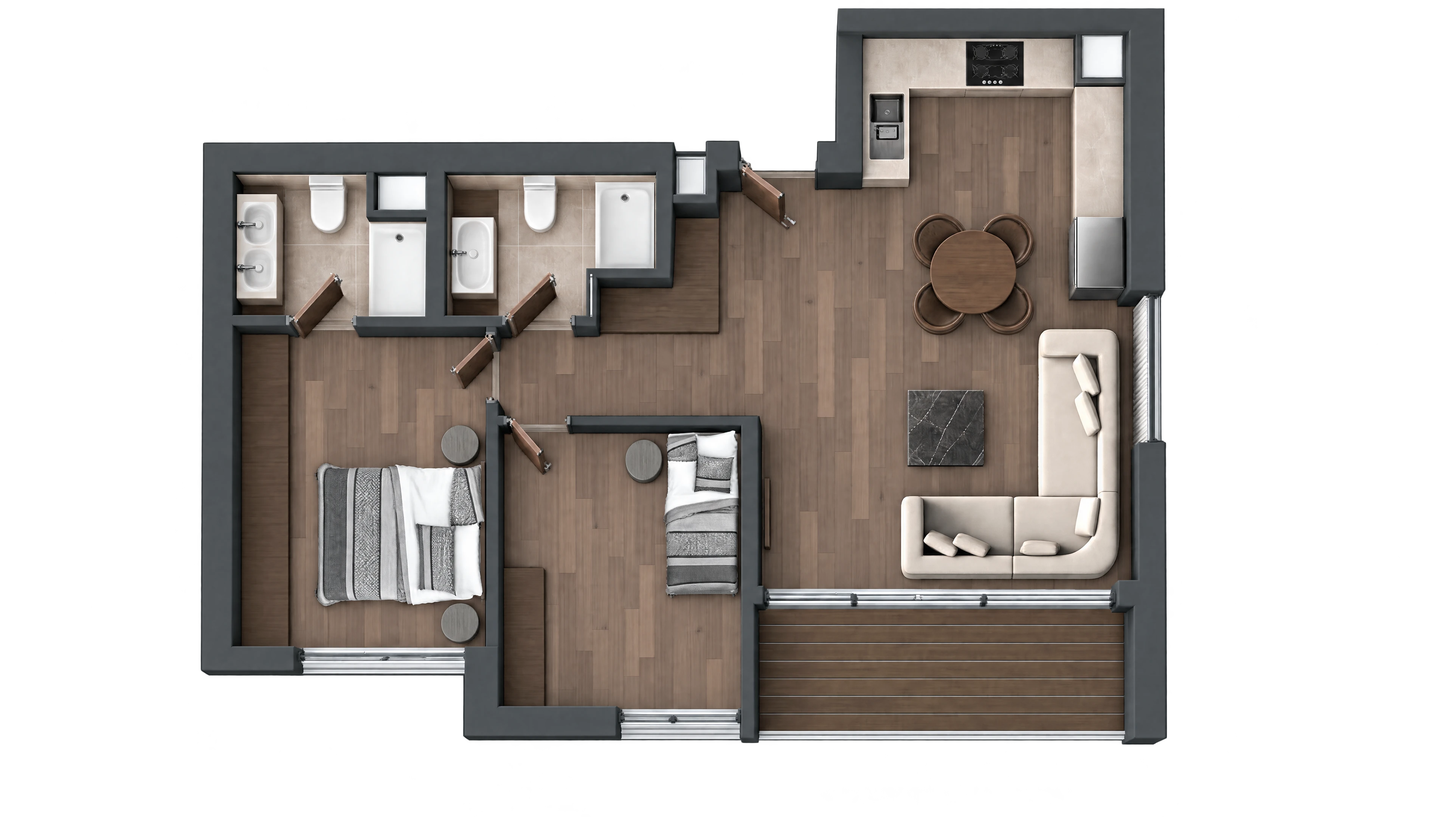
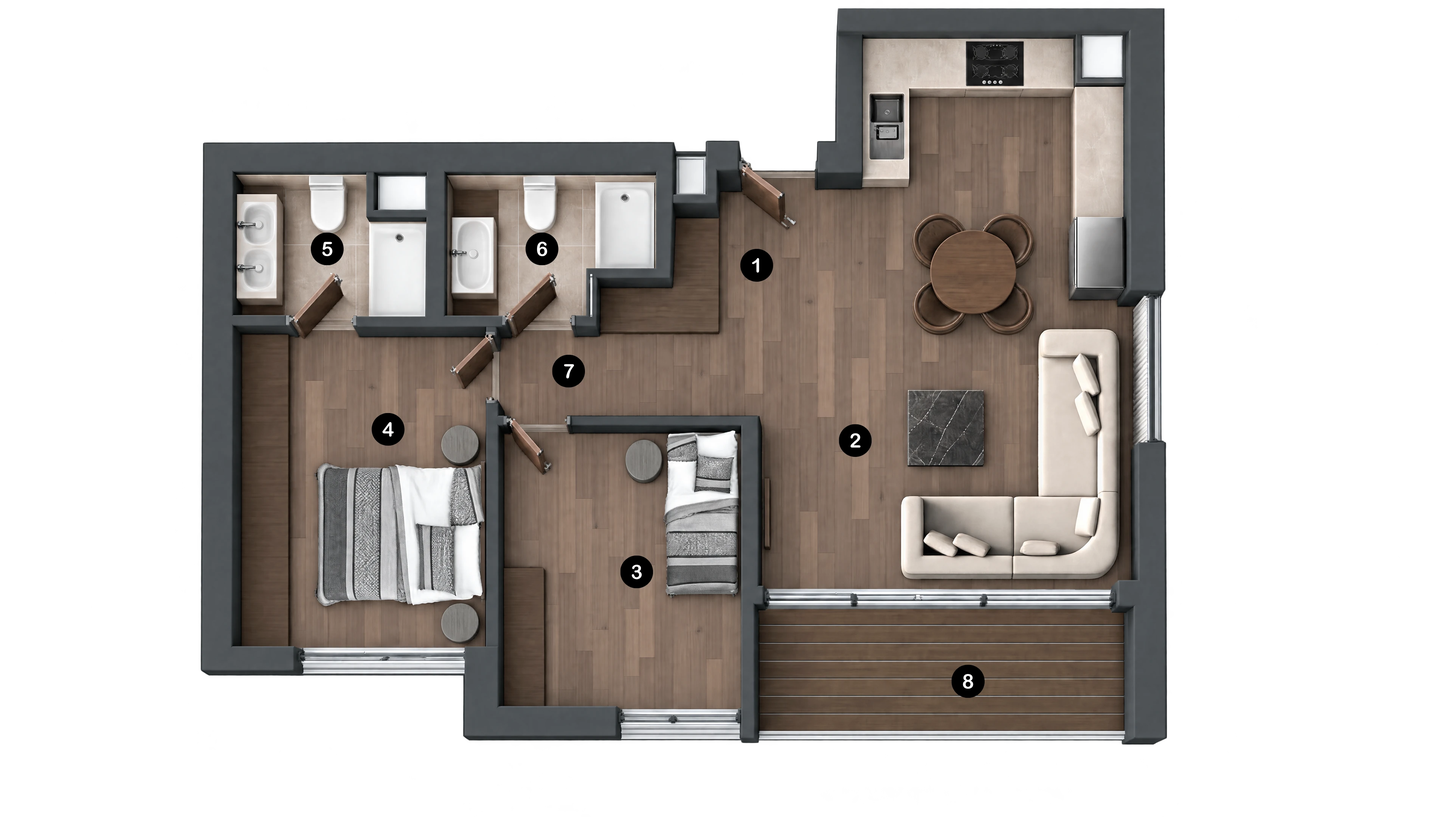
Popup'larda oklu geçiş, K2/K3 oda numaraları, yeni villa banyo görselleri
- assets/js/lightbox-nav.js: tüm popup'lara (Ana Sayfa, Villalar, Daire
  Tipleri, Galeri) sağ/sol ok, klavye ←/→, mobilde kaydırma, sayaç ve
  görseller arası yumuşak geçiş; Galeri'de aktif sekme içinde gezinir,
  Daire Tipleri'nde 6 daire planı / 2 blok planı arasında.
- Daire Tipleri: K2 ve K3 plan görselleri oda numaralı kaynaklardan.
- Villa 1. Kat ebeveyn banyo görselleri yenileriyle değişti (Galeri +
  Villalar); eski dosyalar kaldırıldı, Banyo sekmesi yeni görselleri gösterir.

diff --git a/galeri.html b/galeri.html
@@ -78,8 +78,6 @@
         .pano-scroll { scrollbar-width: none; } .pano-scroll::-webkit-scrollbar { display: none; }
         /* lightbox, panorama mode: use (almost) the full viewport width; on phones keep
            a readable height and let the image scroll sideways instead of shrinking it */
-        #lightbox-img { transition: opacity 0.3s ease, transform 0.3s ease; }
-        #lightbox-img.lb-fade { opacity: 0; transform: scale(0.985); }
         #lightbox figure.lb-wide { max-width: 96vw; overflow-x: auto; }
         #lightbox figure.lb-wide img { width: 100%; height: auto; max-height: none; }
         @media (max-width: 767px) { #lightbox figure.lb-wide img { width: auto; height: 45vh; max-width: none; } }
@@ -343,22 +341,22 @@ src="https://www.facebook.com/tr?id=28939791892284691&ev=PageView&noscript=1"
 </div>
 </div>
 </div>
-<div class="grid grid-cols-1 md:grid-cols-[0.6539fr_0.6500fr_1.0922fr] gap-6 mt-6">
-<div class="lb-tile aspect-[1177/1800] overflow-hidden cursor-pointer group bg-surface-variant" onclick="openLightbox('assets/images/ic/ebeveyn-banyo-3.jpg', 'Ebeveyn Banyo')">
+<div class="grid grid-cols-1 md:grid-cols-[0.6538fr_0.6500fr_1.0919fr] gap-6 mt-6">
+<div class="lb-tile aspect-[1046/1600] overflow-hidden cursor-pointer group bg-surface-variant" onclick="openLightbox('assets/images/villa/ic/ebeveyn-banyo-1-rev.jpg', 'Ebeveyn Banyo')">
 <div class="w-full h-full relative">
-<img class="w-full h-full object-cover transition-transform duration-700 group-hover:scale-[1.03]" alt="Lusso Vita ebeveyn banyosu" src="assets/images/ic/ebeveyn-banyo-3.jpg" loading="lazy">
+<img class="w-full h-full object-cover transition-transform duration-700 group-hover:scale-[1.03]" alt="Lusso Vita ebeveyn banyosu" src="assets/images/villa/ic/ebeveyn-banyo-1-rev.jpg" loading="lazy">
 <div class="absolute inset-0 bg-black/20 opacity-0 group-hover:opacity-100 transition-opacity flex items-end p-6"><span class="text-white font-label-caps text-label-caps">Ebeveyn Banyo</span></div>
 </div>
 </div>
-<div class="lb-tile aspect-[1170/1800] overflow-hidden cursor-pointer group bg-surface-variant" onclick="openLightbox('assets/images/ic/ebeveyn-banyo-4.jpg', 'Ebeveyn Banyo')">
+<div class="lb-tile aspect-[1040/1600] overflow-hidden cursor-pointer group bg-surface-variant" onclick="openLightbox('assets/images/villa/ic/ebeveyn-banyo-2-rev.jpg', 'Ebeveyn Banyo')">
 <div class="w-full h-full relative">
-<img class="w-full h-full object-cover transition-transform duration-700 group-hover:scale-[1.03]" alt="Lusso Vita ebeveyn banyosu duş alanı" src="assets/images/ic/ebeveyn-banyo-4.jpg" loading="lazy">
+<img class="w-full h-full object-cover transition-transform duration-700 group-hover:scale-[1.03]" alt="Lusso Vita ebeveyn banyosu duş alanı" src="assets/images/villa/ic/ebeveyn-banyo-2-rev.jpg" loading="lazy">
 <div class="absolute inset-0 bg-black/20 opacity-0 group-hover:opacity-100 transition-opacity flex items-end p-6"><span class="text-white font-label-caps text-label-caps">Ebeveyn Banyo</span></div>
 </div>
 </div>
-<div class="lb-tile aspect-[1800/1648] overflow-hidden cursor-pointer group bg-surface-variant" onclick="openLightbox('assets/images/ic/ebeveyn-banyo-5.jpg', 'Ebeveyn Banyo')">
+<div class="lb-tile aspect-[1747/1600] overflow-hidden cursor-pointer group bg-surface-variant" onclick="openLightbox('assets/images/villa/ic/ebeveyn-banyo-3-rev.jpg', 'Ebeveyn Banyo')">
 <div class="w-full h-full relative">
-<img class="w-full h-full object-cover transition-transform duration-700 group-hover:scale-[1.03]" alt="Lusso Vita ebeveyn banyosu lavabo ve duş" src="assets/images/ic/ebeveyn-banyo-5.jpg" loading="lazy">
+<img class="w-full h-full object-cover transition-transform duration-700 group-hover:scale-[1.03]" alt="Lusso Vita ebeveyn banyosu lavabo ve duş" src="assets/images/villa/ic/ebeveyn-banyo-3-rev.jpg" loading="lazy">
 <div class="absolute inset-0 bg-black/20 opacity-0 group-hover:opacity-100 transition-opacity flex items-end p-6"><span class="text-white font-label-caps text-label-caps">Ebeveyn Banyo</span></div>
 </div>
 </div>
@@ -479,22 +477,22 @@ src="https://www.facebook.com/tr?id=28939791892284691&ev=PageView&noscript=1"
 
 <div>
 <h3 class="font-headline-sm text-headline-sm text-primary mb-6">Villa 1. Kat</h3>
-<div class="grid grid-cols-1 md:grid-cols-[0.6538fr_0.6538fr_1.0929fr] gap-6 mb-6">
-<div class="aspect-[1046/1600] overflow-hidden cursor-pointer group" onclick="openLightbox('assets/images/villa/ic/ebeveyn-banyo-1.jpg', 'Villa Ebeveyn Banyo')">
+<div class="villa-eb-banyo hidden grid grid-cols-1 md:grid-cols-[0.6538fr_0.6500fr_1.0919fr] gap-6 mb-6">
+<div class="aspect-[1046/1600] overflow-hidden cursor-pointer group" onclick="openLightbox('assets/images/villa/ic/ebeveyn-banyo-1-rev.jpg', 'Villa Ebeveyn Banyo')">
 <div class="w-full h-full relative">
-<img class="w-full h-full object-cover" alt="Lusso Vita villa ebeveyn banyo" src="assets/images/villa/ic/ebeveyn-banyo-1.jpg">
+<img class="w-full h-full object-cover" alt="Lusso Vita villa ebeveyn banyo" src="assets/images/villa/ic/ebeveyn-banyo-1-rev.jpg">
 <div class="absolute inset-0 bg-black/20 opacity-0 group-hover:opacity-100 transition-opacity flex items-end p-8"><span class="text-white font-label-caps text-label-caps">Villa Ebeveyn Banyo</span></div>
 </div>
 </div>
-<div class="aspect-[1046/1600] overflow-hidden cursor-pointer group" onclick="openLightbox('assets/images/villa/ic/ebeveyn-banyo-2.jpg', 'Villa Ebeveyn Banyo')">
+<div class="aspect-[1040/1600] overflow-hidden cursor-pointer group" onclick="openLightbox('assets/images/villa/ic/ebeveyn-banyo-2-rev.jpg', 'Villa Ebeveyn Banyo')">
 <div class="w-full h-full relative">
-<img class="w-full h-full object-cover" alt="Lusso Vita villa ebeveyn banyo ikinci görsel" src="assets/images/villa/ic/ebeveyn-banyo-2.jpg">
+<img class="w-full h-full object-cover" alt="Lusso Vita villa ebeveyn banyo ikinci görsel" src="assets/images/villa/ic/ebeveyn-banyo-2-rev.jpg">
 <div class="absolute inset-0 bg-black/20 opacity-0 group-hover:opacity-100 transition-opacity flex items-end p-8"><span class="text-white font-label-caps text-label-caps">Villa Ebeveyn Banyo</span></div>
 </div>
 </div>
-<div class="aspect-[1600/1464] overflow-hidden cursor-pointer group" onclick="openLightbox('assets/images/villa/ic/ebeveyn-banyo-3.jpg', 'Villa Ebeveyn Banyo')">
+<div class="aspect-[1747/1600] overflow-hidden cursor-pointer group" onclick="openLightbox('assets/images/villa/ic/ebeveyn-banyo-3-rev.jpg', 'Villa Ebeveyn Banyo')">
 <div class="w-full h-full relative">
-<img class="w-full h-full object-cover" alt="Lusso Vita villa ebeveyn banyo üçüncü görsel" src="assets/images/villa/ic/ebeveyn-banyo-3.jpg">
+<img class="w-full h-full object-cover" alt="Lusso Vita villa ebeveyn banyo üçüncü görsel" src="assets/images/villa/ic/ebeveyn-banyo-3-rev.jpg">
 <div class="absolute inset-0 bg-black/20 opacity-0 group-hover:opacity-100 transition-opacity flex items-end p-8"><span class="text-white font-label-caps text-label-caps">Villa Ebeveyn Banyo</span></div>
 </div>
 </div>
@@ -559,15 +557,9 @@ src="https://www.facebook.com/tr?id=28939791892284691&ev=PageView&noscript=1"
 <button class="absolute top-6 right-6 text-white/80 hover:text-white transition-colors" onclick="closeLightbox(event)" aria-label="Kapat">
 <span class="material-symbols-outlined text-4xl">close</span>
 </button>
-<button id="lb-prev" class="absolute left-2 md:left-6 top-1/2 -translate-y-1/2 z-10 w-11 h-11 md:w-14 md:h-14 rounded-full bg-white/10 hover:bg-white/20 text-white flex items-center justify-center transition-colors" onclick="event.stopPropagation(); lbStep(-1)" aria-label="Önceki görsel">
-<span class="material-symbols-outlined text-3xl md:text-4xl">chevron_left</span>
-</button>
-<button id="lb-next" class="absolute right-2 md:right-6 top-1/2 -translate-y-1/2 z-10 w-11 h-11 md:w-14 md:h-14 rounded-full bg-white/10 hover:bg-white/20 text-white flex items-center justify-center transition-colors" onclick="event.stopPropagation(); lbStep(1)" aria-label="Sonraki görsel">
-<span class="material-symbols-outlined text-3xl md:text-4xl">chevron_right</span>
-</button>
-<figure class="max-w-5xl w-full md:px-16" onclick="event.stopPropagation()">
+<figure class="max-w-5xl w-full" onclick="event.stopPropagation()">
 <img id="lightbox-img" src="" alt="" class="w-full h-auto max-h-[85vh] object-contain">
-<figcaption class="text-white/80 font-label-caps text-label-caps text-center mt-4"><span id="lightbox-caption"></span><span id="lightbox-count" class="text-white/40 ml-3"></span></figcaption>
+<figcaption id="lightbox-caption" class="text-white/80 font-label-caps text-label-caps text-center mt-4"></figcaption>
 </figure>
 </div>
 <!-- CTA Section -->
@@ -616,57 +608,17 @@ src="https://www.facebook.com/tr?id=28939791892284691&ev=PageView&noscript=1"
 </div>
 </footer>
 <script>
-        // Lightbox with prev/next: the sequence is every image currently visible
-        // on the page (i.e. the active filter's images, in page order), so the
-        // arrows always stay inside the category the visitor is looking at.
-        let lbList = [], lbIndex = 0, lbBusy = false;
-        function lbCollect() {
-            const seen = new Set();
-            return [...document.querySelectorAll('[onclick^="openLightbox"]')]
-                .filter(el => el.offsetParent !== null && !el.closest('#lightbox'))
-                .map(el => {
-                    const m = el.getAttribute('onclick').match(/openLightbox\('([^']+)',\s*'([^']*)'(?:,\s*(true))?\)/);
-                    return m && { src: m[1], caption: m[2], wide: !!m[3] };
-                })
-                .filter(it => it && !seen.has(it.src) && seen.add(it.src));
-        }
-        function lbRender(item) {
-            const img = document.getElementById('lightbox-img');
-            document.querySelector('#lightbox figure').classList.toggle('lb-wide', item.wide);
-            img.src = item.src;
-            img.alt = item.caption || 'Lusso Vita galeri görseli';
-            document.getElementById('lightbox-caption').textContent = item.caption || '';
-            document.getElementById('lightbox-count').textContent = lbList.length > 1 ? `${lbIndex + 1} / ${lbList.length}` : '';
-            const multi = lbList.length > 1;
-            document.getElementById('lb-prev').style.display = multi ? '' : 'none';
-            document.getElementById('lb-next').style.display = multi ? '' : 'none';
-        }
+        // prev/next arrows, keys, swipe and the soft fade come from assets/js/lightbox-nav.js
+        window.lightboxFlag = 'wide';   // 3rd openLightbox() argument = panorama
         function openLightbox(src, caption, wide) {
             const lightbox = document.getElementById('lightbox');
-            lbList = lbCollect();
-            lbIndex = lbList.findIndex(it => it.src === src);
-            if (lbIndex < 0) { lbList = [{ src, caption, wide: !!wide }]; lbIndex = 0; }
-            const img = document.getElementById('lightbox-img');
-            img.classList.remove('lb-fade');
-            lbRender(lbList[lbIndex]);
+            lightbox.querySelector('figure').classList.toggle('lb-wide', !!wide);
+            document.getElementById('lightbox-img').src = src;
+            document.getElementById('lightbox-img').alt = caption || 'Lusso Vita galeri görseli';
+            document.getElementById('lightbox-caption').textContent = caption || '';
             lightbox.classList.remove('hidden');
             lightbox.classList.add('flex');
             document.body.style.overflow = 'hidden';
-        }
-        function lbStep(dir) {
-            if (lbList.length < 2 || lbBusy) return;
-            lbBusy = true;
-            lbIndex = (lbIndex + dir + lbList.length) % lbList.length;
-            const item = lbList[lbIndex];
-            const img = document.getElementById('lightbox-img');
-            img.classList.add('lb-fade');                     // soft fade-out
-            const pre = new Image();
-            const swap = () => setTimeout(() => {              // swap once faded AND loaded
-                lbRender(item);
-                requestAnimationFrame(() => { img.classList.remove('lb-fade'); lbBusy = false; });
-            }, 300);
-            pre.onload = swap; pre.onerror = swap;
-            pre.src = item.src;
         }
         function closeLightbox(event) {
             if (event) event.stopPropagation();
@@ -677,22 +629,7 @@ src="https://www.facebook.com/tr?id=28939791892284691&ev=PageView&noscript=1"
         }
         document.addEventListener('keydown', (e) => {
             if (e.key === 'Escape') closeLightbox();
-            if (document.getElementById('lightbox').classList.contains('hidden')) return;
-            if (e.key === 'ArrowRight') lbStep(1);
-            if (e.key === 'ArrowLeft') lbStep(-1);
         });
-        // swipe on touch screens (not on panoramas, which scroll sideways themselves)
-        (() => {
-            const lb = document.getElementById('lightbox');
-            let x0 = null;
-            lb.addEventListener('touchstart', (e) => { x0 = e.touches[0].clientX; }, { passive: true });
-            lb.addEventListener('touchend', (e) => {
-                if (x0 === null) return;
-                const dx = e.changedTouches[0].clientX - x0; x0 = null;
-                if (lbList[lbIndex]?.wide || Math.abs(dx) < 50) return;
-                lbStep(dx < 0 ? 1 : -1);
-            });
-        })();
 
         // Keyboard access for gallery thumbnails (Tab to focus, Enter/Space to open)
         document.querySelectorAll('.gallery-item').forEach((item) => {
@@ -732,6 +669,8 @@ src="https://www.facebook.com/tr?id=28939791892284691&ev=PageView&noscript=1"
                 group.style.display = show ? 'block' : 'none';
             });
             // villa ebeveyn banyosu: shown inside Banyolar only under the "Banyo" filter
+            // Villa 1. Kat's ebeveyn banyo row = the same images as Banyolar: show it only under the Villa filter
+            document.querySelectorAll('.villa-eb-banyo').forEach(el => el.classList.toggle('hidden', category !== 'villa'));
             // the daire bento has no lobi/banyo/villa tiles - hide its title for those filters
             const bentoCats = ['all', 'salon', 'mutfak', 'yatak', 'cocuk'];
             document.getElementById('daire-grid-title').style.display = bentoCats.includes(category) ? '' : 'none';
@@ -753,5 +692,6 @@ src="https://www.facebook.com/tr?id=28939791892284691&ev=PageView&noscript=1"
 <a href="https://wa.me/905331587419?text=Merhaba%2C%20Projeniz%20hakk%C4%B1nda%20bilgi%20almak%20istiyorum." target="_blank" rel="noopener noreferrer" aria-label="WhatsApp ile iletişime geç" class="fixed bottom-24 right-5 md:bottom-8 md:right-8 z-40 w-12 h-12 md:w-14 md:h-14 rounded-full bg-[#25D366] flex items-center justify-center shadow-lg hover:scale-110 transition-transform duration-300">
 <span class="material-symbols-outlined text-white text-2xl md:text-3xl">chat</span>
 </a>
+<script src="assets/js/lightbox-nav.js"></script>
 </body>
 </html>

diff --git a/assets/js/lightbox-nav.js b/assets/js/lightbox-nav.js
@@ -1,0 +1,130 @@
+/*
+ * Lusso Vita - shared lightbox navigation (all pages with a #lightbox popup).
+ * Adds prev/next arrows, ←/→ keys, touch swipe, an "n / N" counter and a soft
+ * fade between images to the page's own lightbox. The page keeps its own
+ * openLightbox()/closeLightbox(); this file wraps openLightbox.
+ *
+ * Sequence = every image the visitor can currently see on the page (the
+ * elements with onclick="openLightbox('src', 'caption'[, flag])", in page
+ * order), so on filtered pages the arrows stay inside the active category.
+ * A page can override it with window.lightboxItems(src) -> [{src, caption, flag}].
+ * window.lightboxFlag names what the optional 3rd argument means on that page:
+ *   'wide'    - panorama: use (almost) the full viewport width
+ *   'lightBg' - transparent plan: show it on the site's ivory
+ */
+(function () {
+    const lb = document.getElementById('lightbox');
+    const img = document.getElementById('lightbox-img');
+    const cap = document.getElementById('lightbox-caption');
+    if (!lb || !img || typeof window.openLightbox !== 'function') return;
+    const figure = img.closest('figure');
+
+    const style = document.createElement('style');
+    style.textContent = `
+        #lightbox-img { transition: opacity .3s ease, transform .3s ease; }
+        #lightbox-img.lb-fade { opacity: 0; transform: scale(.985); }
+        #lightbox figure.lb-wide { max-width: 96vw; overflow-x: auto; }
+        #lightbox figure.lb-wide img { width: 100%; height: auto; max-height: none; }
+        @media (max-width: 767px) { #lightbox figure.lb-wide img { width: auto; height: 45vh; max-width: none; } }
+        @media (min-width: 768px) { #lightbox figure.lb-has-nav { padding-left: 4rem; padding-right: 4rem; } }
+        .lb-nav { position: absolute; top: 50%; transform: translateY(-50%); z-index: 10; width: 2.75rem; height: 2.75rem;
+                  border-radius: 9999px; background: rgba(255,255,255,.1); color: #fff; display: flex; align-items: center;
+                  justify-content: center; transition: background-color .2s ease; }
+        .lb-nav:hover { background: rgba(255,255,255,.2); }
+        .lb-nav .material-symbols-outlined { font-size: 1.9rem; }
+        @media (min-width: 768px) { .lb-nav { width: 3.5rem; height: 3.5rem; } .lb-nav .material-symbols-outlined { font-size: 2.25rem; } }
+        #lb-prev { left: .5rem; } #lb-next { right: .5rem; }
+        @media (min-width: 768px) { #lb-prev { left: 1.5rem; } #lb-next { right: 1.5rem; } }
+        #lightbox-count { color: rgba(255,255,255,.4); text-align: center; margin-top: .5rem; font-size: 10px; letter-spacing: .15em; }
+    `;
+    document.head.appendChild(style);
+
+    const mkBtn = (id, icon, label, dir) => {
+        const b = document.createElement('button');
+        b.id = id; b.className = 'lb-nav'; b.type = 'button'; b.setAttribute('aria-label', label);
+        b.innerHTML = `<span class="material-symbols-outlined">${icon}</span>`;
+        b.addEventListener('click', (e) => { e.stopPropagation(); step(dir); });
+        lb.appendChild(b);
+        return b;
+    };
+    const prevBtn = mkBtn('lb-prev', 'chevron_left', 'Önceki görsel', -1);
+    const nextBtn = mkBtn('lb-next', 'chevron_right', 'Sonraki görsel', 1);
+    const counter = document.createElement('div');
+    counter.id = 'lightbox-count';
+    figure.appendChild(counter);
+
+    const abs = (u) => { try { return new URL(u, location.href).href; } catch (e) { return u; } };
+    const flagName = window.lightboxFlag || '';
+    let list = [], idx = 0, busy = false;
+
+    function collect(src) {
+        if (typeof window.lightboxItems === 'function') {
+            const custom = window.lightboxItems(src);
+            if (custom && custom.length) return custom;
+        }
+        const seen = new Set();
+        return [...document.querySelectorAll('[onclick^="openLightbox"]')]
+            .filter(el => el.offsetParent !== null && !el.closest('#lightbox'))
+            .map(el => {
+                const m = el.getAttribute('onclick').match(/openLightbox\('([^']+)',\s*'([^']*)'(?:,\s*(true))?\)/);
+                return m && { src: m[1], caption: m[2], flag: !!m[3] };
+            })
+            .filter(it => it && !seen.has(abs(it.src)) && seen.add(abs(it.src)));
+    }
+
+    function render(it) {
+        img.src = it.src;
+        img.alt = it.caption || 'Lusso Vita görseli';
+        cap.textContent = it.caption || '';
+        figure.classList.toggle('lb-wide', flagName === 'wide' && !!it.flag);
+        const light = flagName === 'lightBg' && !!it.flag;
+        img.style.background = light ? '#FCF9F1' : '';
+        img.style.padding = light ? '2.5%' : '';
+        img.style.borderRadius = light ? '12px' : '';
+        const multi = list.length > 1;
+        prevBtn.style.display = nextBtn.style.display = multi ? '' : 'none';
+        figure.classList.toggle('lb-has-nav', multi);
+        counter.textContent = multi ? `${idx + 1} / ${list.length}` : '';
+    }
+
+    function step(dir) {
+        if (list.length < 2 || busy || lb.classList.contains('hidden')) return;
+        busy = true;
+        idx = (idx + dir + list.length) % list.length;
+        const it = list[idx];
+        img.classList.add('lb-fade');                       // soft fade-out
+        const pre = new Image();
+        const swap = () => setTimeout(() => {               // swap once faded out AND loaded
+            render(it);
+            setTimeout(() => { img.classList.remove('lb-fade'); busy = false; }, 20);  // next frame: fade back in
+        }, 300);
+        pre.onload = swap; pre.onerror = swap;
+        pre.src = it.src;
+    }
+
+    const original = window.openLightbox;
+    window.openLightbox = function (src, caption, flag) {
+        original.apply(this, arguments);
+        list = collect(src);
+        idx = list.findIndex(it => abs(it.src) === abs(src));
+        if (idx < 0) { list = [{ src, caption, flag: !!flag }]; idx = 0; }
+        img.classList.remove('lb-fade');
+        busy = false;
+        render(list[idx]);
+    };
+
+    document.addEventListener('keydown', (e) => {
+        if (lb.classList.contains('hidden')) return;
+        if (e.key === 'ArrowRight') step(1);
+        if (e.key === 'ArrowLeft') step(-1);
+    });
+    let x0 = null;
+    lb.addEventListener('touchstart', (e) => { x0 = e.touches[0].clientX; }, { passive: true });
+    lb.addEventListener('touchend', (e) => {
+        if (x0 === null) return;
+        const dx = e.changedTouches[0].clientX - x0; x0 = null;
+        const it = list[idx];
+        if (Math.abs(dx) < 50 || (it && it.flag && flagName === 'wide')) return;  // panoramas scroll sideways themselves
+        step(dx < 0 ? 1 : -1);
+    });
+})();

diff --git a/villalar.html b/villalar.html
@@ -301,7 +301,7 @@ src="https://www.facebook.com/tr?id=28939791892284691&ev=PageView&noscript=1"
 <h3 class="font-headline-sm text-headline-sm text-primary mb-6">1. Kat — Yatak Odaları ve Banyo</h3>
 <div class="grid grid-cols-1 md:grid-cols-[1.7837fr_0.6538fr] gap-4">
 <div class="aspect-[1600/897] overflow-hidden bg-travertine group cursor-pointer" onclick="openLightbox('assets/images/villa/ic/ebeveyn-yatak-odasi-1.jpg', 'Ebeveyn Yatak Odası')"><img class="w-full h-full object-cover transition-transform duration-700 group-hover:scale-105" alt="Villa ebeveyn yatak odası" src="assets/images/villa/ic/ebeveyn-yatak-odasi-1.jpg"></div>
-<div class="aspect-[1046/1600] overflow-hidden bg-travertine group cursor-pointer" onclick="openLightbox('assets/images/villa/ic/ebeveyn-banyo-1.jpg', 'Ebeveyn Banyo')"><img class="w-full h-full object-cover transition-transform duration-700 group-hover:scale-105" alt="Villa ebeveyn banyo" src="assets/images/villa/ic/ebeveyn-banyo-1.jpg"></div>
+<div class="aspect-[1046/1600] overflow-hidden bg-travertine group cursor-pointer" onclick="openLightbox('assets/images/villa/ic/ebeveyn-banyo-1-rev.jpg', 'Ebeveyn Banyo')"><img class="w-full h-full object-cover transition-transform duration-700 group-hover:scale-105" alt="Villa ebeveyn banyo" src="assets/images/villa/ic/ebeveyn-banyo-1-rev.jpg"></div>
 </div>
 <div class="grid grid-cols-1 md:grid-cols-[1.3008fr_1.6000fr_0.7456fr] gap-4 mt-4">
 <div class="aspect-[1600/1230] overflow-hidden bg-travertine group cursor-pointer" onclick="openLightbox('assets/images/villa/ic/yatak-odasi-1.jpg', 'Yatak Odası')"><img class="w-full h-full object-cover transition-transform duration-700 group-hover:scale-105" alt="Villa yatak odası" src="assets/images/villa/ic/yatak-odasi-1.jpg"></div>
@@ -314,9 +314,9 @@ src="https://www.facebook.com/tr?id=28939791892284691&ev=PageView&noscript=1"
 <div class="aspect-[16/10] overflow-hidden bg-travertine group cursor-pointer" onclick="openLightbox('assets/images/villa/ic/yatak-odasi-2.jpg', 'Yatak Odası')"><img class="w-full h-full object-cover transition-transform duration-700 group-hover:scale-105" alt="Villa yatak odası ikinci görsel" src="assets/images/villa/ic/yatak-odasi-2.jpg"></div>
 <div class="aspect-[16/10] overflow-hidden bg-travertine group cursor-pointer" onclick="openLightbox('assets/images/villa/ic/ebeveyn-giyinme-2.jpg', 'Ebeveyn Giyinme Odası')"><img class="w-full h-full object-cover transition-transform duration-700 group-hover:scale-105" alt="Villa ebeveyn giyinme odası ikinci görsel" src="assets/images/villa/ic/ebeveyn-giyinme-2.jpg"></div>
 </div>
-<div class="grid grid-cols-1 md:grid-cols-[0.6538fr_1.0929fr] gap-4 mt-4">
-<div class="aspect-[1046/1600] overflow-hidden bg-travertine group cursor-pointer" onclick="openLightbox('assets/images/villa/ic/ebeveyn-banyo-2.jpg', 'Ebeveyn Banyo')"><img class="w-full h-full object-cover transition-transform duration-700 group-hover:scale-105" alt="Villa ebeveyn banyo ikinci görsel" src="assets/images/villa/ic/ebeveyn-banyo-2.jpg"></div>
-<div class="aspect-[1600/1464] overflow-hidden bg-travertine group cursor-pointer" onclick="openLightbox('assets/images/villa/ic/ebeveyn-banyo-3.jpg', 'Ebeveyn Banyo')"><img class="w-full h-full object-cover transition-transform duration-700 group-hover:scale-105" alt="Villa ebeveyn banyo üçüncü görsel" src="assets/images/villa/ic/ebeveyn-banyo-3.jpg"></div>
+<div class="grid grid-cols-1 md:grid-cols-[0.6500fr_1.0919fr] gap-4 mt-4">
+<div class="aspect-[1040/1600] overflow-hidden bg-travertine group cursor-pointer" onclick="openLightbox('assets/images/villa/ic/ebeveyn-banyo-2-rev.jpg', 'Ebeveyn Banyo')"><img class="w-full h-full object-cover transition-transform duration-700 group-hover:scale-105" alt="Villa ebeveyn banyo ikinci görsel" src="assets/images/villa/ic/ebeveyn-banyo-2-rev.jpg"></div>
+<div class="aspect-[1747/1600] overflow-hidden bg-travertine group cursor-pointer" onclick="openLightbox('assets/images/villa/ic/ebeveyn-banyo-3-rev.jpg', 'Ebeveyn Banyo')"><img class="w-full h-full object-cover transition-transform duration-700 group-hover:scale-105" alt="Villa ebeveyn banyo üçüncü görsel" src="assets/images/villa/ic/ebeveyn-banyo-3-rev.jpg"></div>
 </div>
 </div>
 </section>
@@ -527,5 +527,6 @@ src="https://www.facebook.com/tr?id=28939791892284691&ev=PageView&noscript=1"
 <a href="https://wa.me/905331587419?text=Merhaba%2C%20Projeniz%20hakk%C4%B1nda%20bilgi%20almak%20istiyorum." target="_blank" rel="noopener noreferrer" aria-label="WhatsApp ile iletişime geç" class="fixed bottom-24 right-5 md:bottom-8 md:right-8 z-40 w-12 h-12 md:w-14 md:h-14 rounded-full bg-[#25D366] flex items-center justify-center shadow-lg hover:scale-110 transition-transform duration-300">
 <span class="material-symbols-outlined text-white text-2xl md:text-3xl">chat</span>
 </a>
+<script src="assets/js/lightbox-nav.js"></script>
 </body>
 </html>

diff --git a/daire-tipleri.html b/daire-tipleri.html
@@ -283,6 +283,14 @@ src="https://www.facebook.com/tr?id=28939791892284691&ev=PageView&noscript=1"
     </div>
 
     <script>
+        // popup navigation (assets/js/lightbox-nav.js): daire plans step through all
+        // six daire types in tab order, blok plans through the two blok plans
+        window.lightboxFlag = 'lightBg';
+        window.lightboxItems = (src) => {
+            if (/blok-kat-planlari\//.test(src)) return Object.values(blokKatPlanlari).map(d => ({ src: d.image, caption: d.alt, flag: true }));
+            if (/kat-planlari\//.test(src)) return Object.values(floorPlanData).map(d => ({ src: d.image, caption: d.title, flag: false }));
+            return null;
+        };
         function openLightbox(src, caption, lightBg) {
             const lightbox = document.getElementById('lightbox');
             const lbImg = document.getElementById('lightbox-img');
@@ -449,4 +457,5 @@ src="https://www.facebook.com/tr?id=28939791892284691&ev=PageView&noscript=1"
 <a href="https://wa.me/905331587419?text=Merhaba%2C%20Projeniz%20hakk%C4%B1nda%20bilgi%20almak%20istiyorum." target="_blank" rel="noopener noreferrer" aria-label="WhatsApp ile iletişime geç" class="fixed bottom-24 right-5 md:bottom-8 md:right-8 z-40 w-12 h-12 md:w-14 md:h-14 rounded-full bg-[#25D366] flex items-center justify-center shadow-lg hover:scale-110 transition-transform duration-300">
 <span class="material-symbols-outlined text-white text-2xl md:text-3xl">chat</span>
 </a>
+<script src="assets/js/lightbox-nav.js"></script>
 </body></html>

diff --git a/index.html b/index.html
@@ -408,5 +408,6 @@ src="https://www.facebook.com/tr?id=28939791892284691&ev=PageView&noscript=1"
 <a href="https://wa.me/905331587419?text=Merhaba%2C%20Projeniz%20hakk%C4%B1nda%20bilgi%20almak%20istiyorum." target="_blank" rel="noopener noreferrer" aria-label="WhatsApp ile iletişime geç" class="fixed bottom-24 right-5 md:bottom-8 md:right-8 z-40 w-12 h-12 md:w-14 md:h-14 rounded-full bg-[#25D366] flex items-center justify-center shadow-lg hover:scale-110 transition-transform duration-300">
 <span class="material-symbols-outlined text-white text-2xl md:text-3xl">chat</span>
 </a>
+<script src="assets/js/lightbox-nav.js"></script>
 </body>
 </html>
